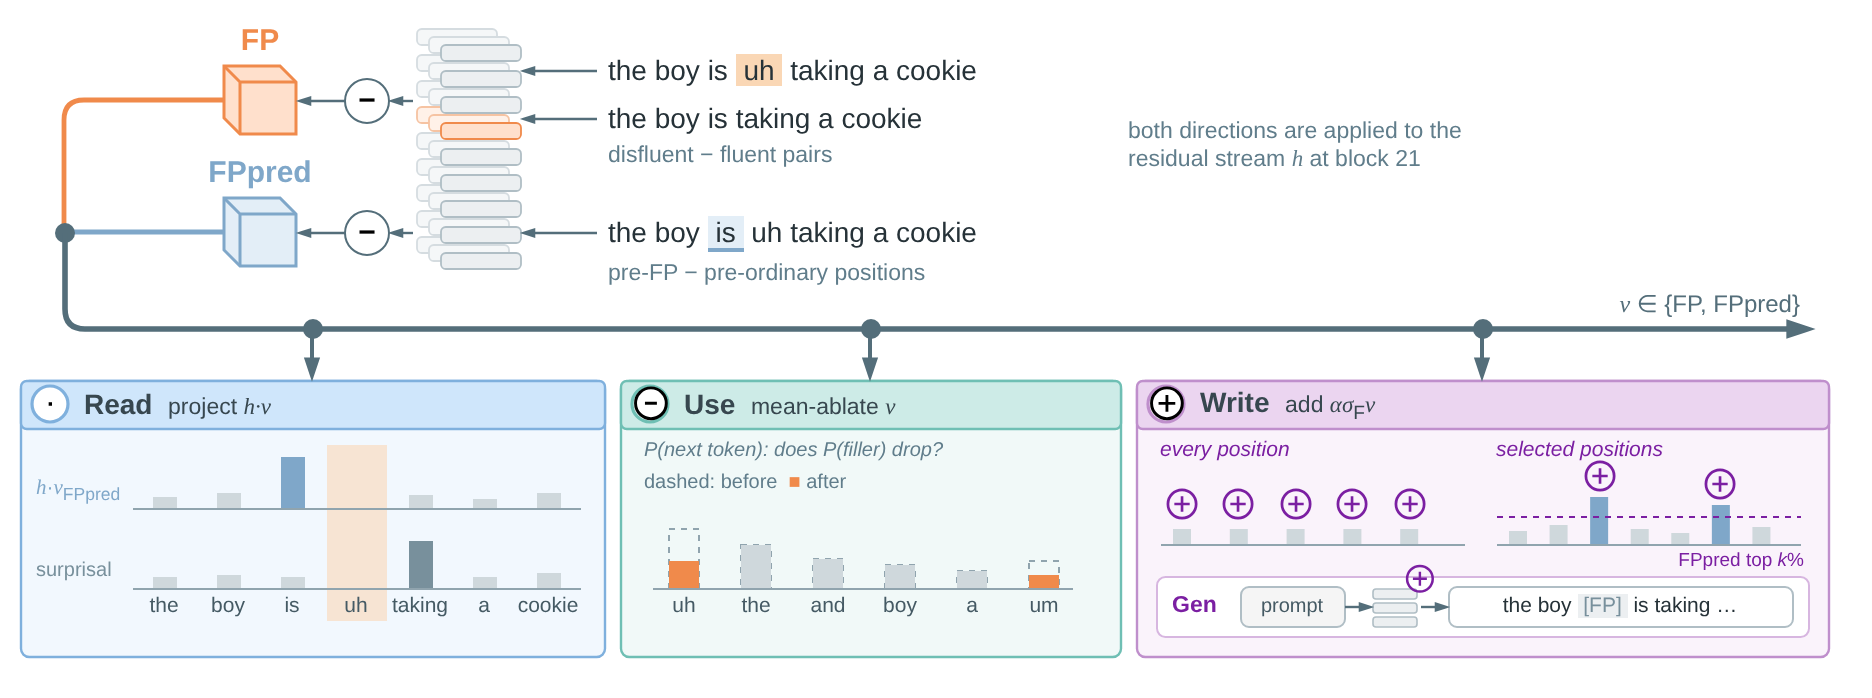
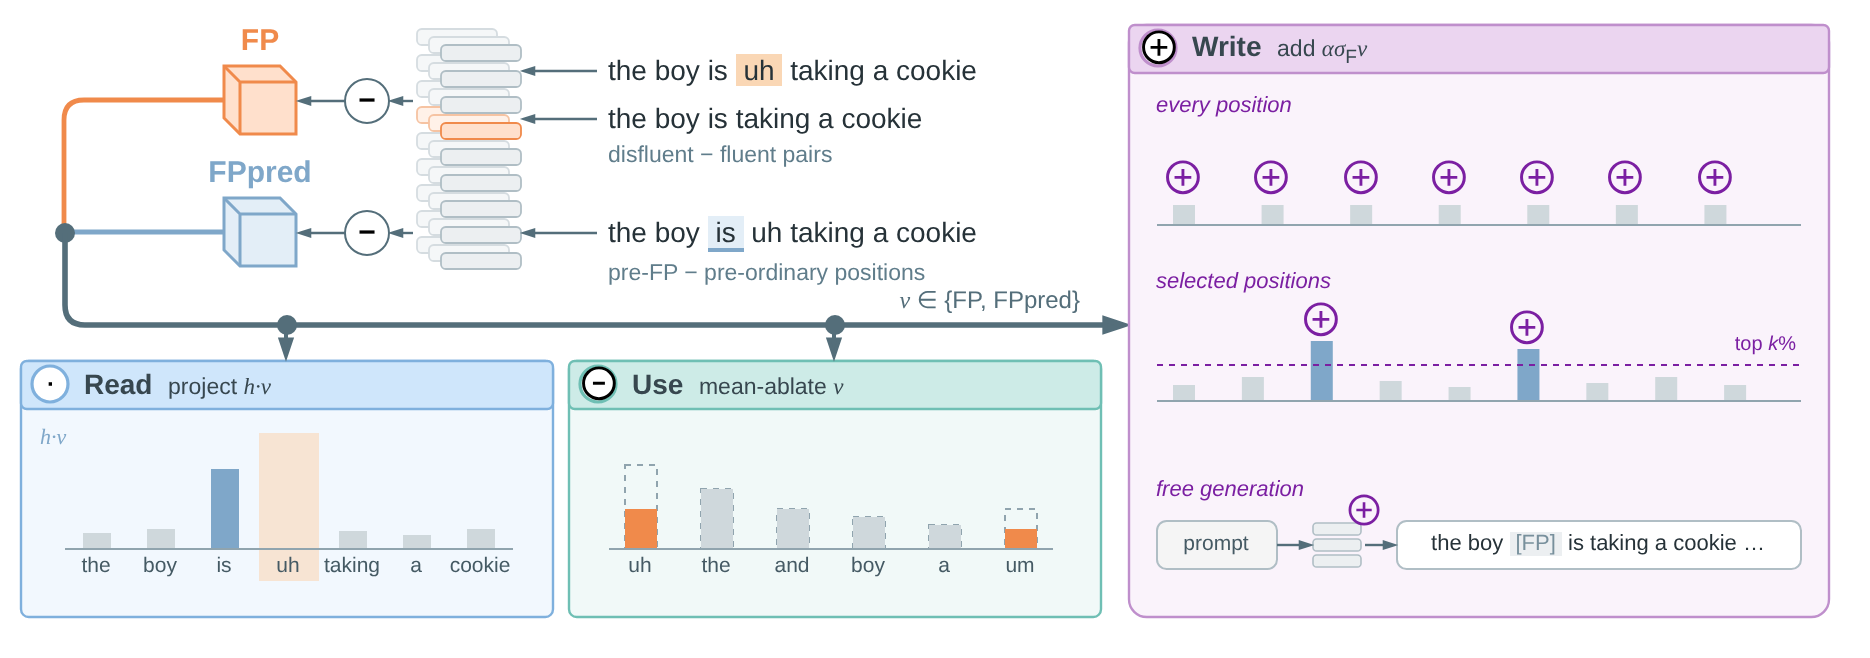
Overview figure v15: minimal Read/Use glyphs, full-height Write panel on the right
Claude-Session: https://claude.ai/code/session_01Nr8f45fQSeuNoeBXRTJGZT

diff --git a/figures/gen_overview.py b/figures/gen_overview.py
@@ -71,7 +71,7 @@ def tab(label, x, y, w):
 
 
 
-W, H = 920, 330
+W, H = 920, 312
 DARK = "#37474F"
 NOTE = "#607D8B"
 GREY_BAR = "#CFD8DC"
@@ -127,109 +127,101 @@ e(m2, c2, FLOW)
 text("<b>FP</b>", 98, FPY - 40, 60, 20, 15, WARM_S, "center")
 text("<b>FPpred</b>", 90, PRY - 40, 76, 20, 15, COOL_S, "center")
 
-text(f"both directions are applied to the<br>residual stream {serif('h')} at block 21",
-     560, 52, 300, 34, 11.5, NOTE)
 
-# both directions merge into one line that runs left -> right above the stages
-RL = 160
+
+# both directions merge into one line: left -> right, taps Read and Use, ends in Write
+RL = 158
 LINE = "#546E7A"
+WX = 562
 e(None, None, f"endArrow=none;strokeColor={WARM_S};strokeWidth=2.4;", sp=(110, FPY), pts=[(30, FPY)], tp=(30, PRY))
 e(None, None, f"endArrow=none;strokeColor={COOL_S};strokeWidth=2.4;", sp=(110, PRY), tp=(30, PRY))
 v("", 25, PRY - 5, 10, 10, f"ellipse;html=1;fillColor={LINE};strokeColor=none;")
-e(None, None, f"endArrow=blockThin;endFill=1;strokeColor={LINE};strokeWidth=2.8;", sp=(30, PRY), pts=[(30, RL)], tp=(904, RL))
-text(f"{serif('v')} ∈ {{FP, FPpred}}", 760, RL - 20, 140, 16, 12, LINE, "right")
+e(None, None, f"endArrow=blockThin;endFill=1;strokeColor={LINE};strokeWidth=2.8;", sp=(30, PRY), pts=[(30, RL)], tp=(WX, RL))
+text(f"{serif('v')} ∈ {{FP, FPpred}}", 400, RL - 20, 140, 16, 12, LINE, "right")
 
-# ======================= bottom: three stages =======================
-PY, PH = 186, 138
-PANELS = {"Read": (8, 292), "Use": (308, 250), "Write": (566, 346)}
+# ======================= stages =======================
+PY, PH = 176, 128
+WY, WH = 8, PY + PH - 8
+PANELS = {"Read": (8, 266, PY, PH), "Use": (282, 266, PY, PH), "Write": (WX, 912 - WX, WY, WH)}
 STYLE = {"Read": ("#F2F8FE", "#CFE6FB", "#7FB0DD", "·", f"project {serif('h·v')}"),
          "Use": ("#F1F9F8", "#CDEBE7", "#6FBFB4", "⊖", f"mean-ablate {serif('v')}"),
          "Write": ("#FAF3FB", "#EBD5F0", "#BF8FCC", "⊕", f"add {serif('ασ')}<sub>F</sub>{serif('v')}")}
-for name, (x, w) in PANELS.items():
+for name, (x, w, y, h) in PANELS.items():
     body, head, stroke, op, formula = STYLE[name]
-    v("", x, PY, w, PH, f"rounded=1;arcSize=3;html=1;fillColor={body};strokeColor={stroke};strokeWidth=1.2;")
-    v("", x, PY, w, 24, f"rounded=1;arcSize=12;html=1;fillColor={head};strokeColor={stroke};strokeWidth=1.2;")
-    v(op, x + 6, PY + 3, 18, 18, f"ellipse;html=1;fillColor=#FFFFFF;strokeColor={stroke};strokeWidth=1.6;fontSize=12;fontStyle=1;" + FONT)
-    text(f"<b>{name}</b>&nbsp;&nbsp;<font style='font-size:11.5px'>{formula}</font>", x + 30, PY + 2, w - 34, 20, 14, DARK)
-    cx_ = x + w / 2
-    v("", cx_ - 5, RL - 5, 10, 10, f"ellipse;html=1;fillColor={LINE};strokeColor=none;")
-    e(None, None, f"endArrow=blockThin;endFill=1;strokeColor={LINE};strokeWidth=2;", sp=(cx_, RL), tp=(cx_, PY))
+    v("", x, y, w, h, f"rounded=1;arcSize=3;html=1;fillColor={body};strokeColor={stroke};strokeWidth=1.2;")
+    v("", x, y, w, 24, f"rounded=1;arcSize=12;html=1;fillColor={head};strokeColor={stroke};strokeWidth=1.2;")
+    v(op, x + 6, y + 3, 18, 18, f"ellipse;html=1;fillColor=#FFFFFF;strokeColor={stroke};strokeWidth=1.6;fontSize=12;fontStyle=1;" + FONT)
+    text(f"<b>{name}</b>&nbsp;&nbsp;<font style='font-size:11.5px'>{formula}</font>", x + 30, y + 2, w - 34, 20, 14, DARK)
+    if name != "Write":
+        cx_ = x + w / 2
+        v("", cx_ - 5, RL - 5, 10, 10, f"ellipse;html=1;fillColor={LINE};strokeColor=none;")
+        e(None, None, f"endArrow=blockThin;endFill=1;strokeColor={LINE};strokeWidth=2;", sp=(cx_, RL), tp=(cx_, y))
 
-# ---- Read: h·v_FPpred peaks before the FP; surprisal peaks on the word after it
-x, w = PANELS["Read"]
+# ---- Read: h·v peaks just before the FP
+x, w, y, h = PANELS["Read"]
 words = ["the", "boy", "is", "uh", "taking", "a", "cookie"]
-dx, gx = 32, x + 56
-b1, b2 = PY + 64, PY + 104
-v("", gx + 3 * dx + 1, PY + 32, 30, 88, f"rounded=0;html=1;strokeColor=none;fillColor={FPHL};opacity=60;")
-hv = [6, 8, 26, 0, 7, 5, 8]
-sp_ = [6, 7, 6, 0, 24, 6, 8]
+dx, gx = 32, x + 22
+base = y + 94
+v("", gx + 3 * dx + 1, y + 36, 30, 74, f"rounded=0;html=1;strokeColor=none;fillColor={FPHL};opacity=60;")
+hv = [8, 10, 40, 0, 9, 7, 10]
 for i in range(len(words)):
-    if i == 3:
-        continue
-    bar(gx + i * dx + 10, b1, hv[i], COOL_S if i == 2 else GREY_BAR, w=12)
-    bar(gx + i * dx + 10, b2, sp_[i], "#78909C" if i == 4 else GREY_BAR, w=12)
-for yy in (b1, b2):
-    hline(gx, gx + len(words) * dx, yy, AXIS)
+    if i != 3:
+        bar(gx + i * dx + 9, base, hv[i], COOL_S if i == 2 else GREY_BAR, w=14)
+hline(gx, gx + len(words) * dx, base, AXIS)
 for i, wd in enumerate(words):
-    text(wd, gx + i * dx - 4, b2 + 2, dx + 8, 14, 10.5, "#455A64", "center")
-text(f"{serif('h')}·{serif('v')}<sub>FPpred</sub>", x + 6, b1 - 16, 52, 14, 10.5, COOL_S)
-text("surprisal", x + 6, b2 - 16, 52, 14, 10, "#78909C")
+    text(wd, gx + i * dx - 4, base + 2, dx + 8, 14, 10.5, "#455A64", "center")
+text(f"{serif('h·v')}", x + 8, y + 32, 30, 14, 11, COOL_S)
 
 # ---- Use: next-token distribution before (dashed) / after ablation (filled)
-x, w = PANELS["Use"]
-text("<i>P(next token): does P(filler) drop?</i>", x + 10, PY + 28, w - 14, 14, 10, NOTE)
+x, w, y, h = PANELS["Use"]
 cands = ["uh", "the", "and", "boy", "a", "um"]
-before = [30, 22, 15, 12, 9, 14]
-after = [14, 22, 15, 12, 9, 7]
-base, dx, gx = PY + 104, 36, x + 24
+before = [42, 30, 20, 16, 12, 20]
+after = [20, 30, 20, 16, 12, 10]
+base, dx, gx = y + 94, 38, x + 28
 for i in range(len(cands)):
     xx = gx + i * dx
-    bar(xx, base, before[i], "none", w=15, extra="strokeColor=#90A4AE;dashed=1;strokeWidth=1;")
-    bar(xx, base, after[i], WARM_S if cands[i] in ("uh", "um") else GREY_BAR, w=15)
+    bar(xx, base, before[i], "none", w=16, extra="strokeColor=#90A4AE;dashed=1;strokeWidth=1;")
+    bar(xx, base, after[i], WARM_S if cands[i] in ("uh", "um") else GREY_BAR, w=16)
     text(cands[i], xx - 12, base + 2, 40, 14, 10.5, "#455A64", "center")
 hline(gx - 8, gx + len(cands) * dx - 14, base, AXIS)
-text(f"dashed: before&nbsp; <span style='color:{WARM_S}'>■</span> after", x + 10, PY + 44, w - 14, 14, 10, NOTE)
 
-# ---- Write: every vs selected positions, free generation, analyses
-x, w = PANELS["Write"]
-half = (w - 30) / 2
-for k, title in enumerate(("every position", "selected positions")):
-    bx = x + 10 + k * (half + 10)
-    text(f"<i>{title}</i>", bx, PY + 28, half, 14, 10.5, PURPLE)
-    base = PY + 82
-    n = 5 if k == 0 else 7
-    ddx = (half - 16) / n
-    sc = [7, 10, 24, 8, 6, 20, 9]
+# ---- Write (tall): every position, selected positions, free generation
+x, w, y, h = PANELS["Write"]
+blocks = (("every position", y + 34), ("selected positions", y + 122))
+for k, (title, ty) in enumerate(blocks):
+    text(f"<i>{title}</i>", x + 12, ty, 160, 14, 11, PURPLE)
+    base = ty + 66
+    n = 7 if k == 0 else 9
+    ddx = (w - 40) / n
+    sc = [8, 12, 30, 10, 7, 26, 9, 12, 8]
     for i in range(n):
-        xx = bx + 8 + i * ddx
+        xx = x + 22 + i * ddx
         if k == 0:
-            bar(xx, base, 8, GREY_BAR, w=9)
-            text("⊕", xx - 3, base - 26, 16, 14, 11, PURPLE, "center", "fontStyle=1;")
+            bar(xx, base, 10, GREY_BAR, w=11)
+            text("⊕", xx - 3, base - 30, 17, 14, 12, PURPLE, "center", "fontStyle=1;")
         else:
-            over = sc[i] > 14
-            bar(xx, base, sc[i], COOL_S if over else GREY_BAR, w=9)
+            over = sc[i] > 18
+            bar(xx, base, sc[i], COOL_S if over else GREY_BAR, w=11)
             if over:
-                text("⊕", xx - 3, base - sc[i] - 16, 16, 14, 11, PURPLE, "center", "fontStyle=1;")
-    hline(bx + 2, bx + half - 4, base, AXIS)
+                text("⊕", xx - 3, base - sc[i] - 17, 17, 14, 12, PURPLE, "center", "fontStyle=1;")
+    hline(x + 14, x + w - 14, base, AXIS)
     if k == 1:
-        hline(bx + 2, bx + half - 4, base - 14, "dashed=1;strokeColor=#7B1FA2;strokeWidth=1;")
-        text("FPpred top <i>k</i>%", bx + half - 90, base + 2, 90, 12, 9.5, PURPLE, "right")
+        hline(x + 14, x + w - 14, base - 18, "dashed=1;strokeColor=#7B1FA2;strokeWidth=1;")
+        text("top <i>k</i>%", x + w - 60, base - 34, 46, 12, 10, PURPLE, "right")
 
-gy = PY + 98
-v("", x + 10, gy, w - 20, 30, "rounded=1;arcSize=14;html=1;fillColor=#FFFFFF;strokeColor=#D7B6E0;")
-text("<b>Gen</b>", x + 16, gy + 6, 34, 18, 11.5, PURPLE)
-pc = v("prompt", x + 52, gy + 5, 52, 20,
-       "rounded=1;arcSize=20;html=1;fillColor=#F5F5F5;strokeColor=#B0BEC5;fontSize=10;fontColor=#455A64;whiteSpace=wrap;" + FONT)
-gl = x + 118
+gy = y + 226
+text("<i>free generation</i>", x + 12, gy, 160, 14, 11, PURPLE)
+pc = v("prompt", x + 14, gy + 22, 60, 24,
+       "rounded=1;arcSize=20;html=1;fillColor=#F5F5F5;strokeColor=#B0BEC5;fontSize=10.5;fontColor=#455A64;whiteSpace=wrap;" + FONT)
+gl = x + 92
 for i in range(3):
-    v("", gl, gy + 6 + i * 7, 22, 5, "rounded=1;arcSize=30;html=1;strokeWidth=0.8;fillColor=#ECEFF1;strokeColor=#B0BEC5;")
-text("⊕", gl + 16, gy - 4, 16, 12, 10, PURPLE, "center", "fontStyle=1;")
-e(pc, None, FLOW, tp=(gl, gy + 15))
-oc = v("the boy <span style='background-color:#ECEFF1;color:#78909C'>&nbsp;[FP]&nbsp;</span> is taking …",
-       gl + 38, gy + 5, x + w - 18 - (gl + 38), 20,
-       "rounded=1;arcSize=20;html=1;fillColor=#FFFFFF;strokeColor=#B0BEC5;fontSize=10.5;fontColor=#263238;whiteSpace=wrap;" + FONT)
-e(None, oc, FLOW, sp=(gl + 24, gy + 15))
-
+    v("", gl, gy + 23 + i * 8, 24, 6, "rounded=1;arcSize=30;html=1;strokeWidth=0.8;fillColor=#ECEFF1;strokeColor=#B0BEC5;")
+text("⊕", gl + 18, gy + 12, 16, 12, 11, PURPLE, "center", "fontStyle=1;")
+e(pc, None, FLOW, tp=(gl, gy + 34))
+oc = v("the boy <span style='background-color:#ECEFF1;color:#78909C'>&nbsp;[FP]&nbsp;</span> is taking a cookie …",
+       gl + 42, gy + 22, x + w - 14 - (gl + 42), 24,
+       "rounded=1;arcSize=20;html=1;fillColor=#FFFFFF;strokeColor=#B0BEC5;fontSize=11;fontColor=#263238;whiteSpace=wrap;" + FONT)
+e(None, oc, FLOW, sp=(gl + 26, gy + 34))
 
 xml = ('<mxfile host="drawio"><diagram id="overview" name="Overview">'
        f'<mxGraphModel dx="{W}" dy="{H}" grid="0" gridSize="10" guides="1" tooltips="1" connect="1" arrows="1" '

diff --git a/figures/overview_prompt.md b/figures/overview_prompt.md
@@ -177,3 +177,9 @@ Write 栏挂钩前放门控菱形 `FPpred high?`，接收来自 ② 的 `externa
 - 去掉各面板的实验条目，每个阶段只保留一张分布示意图（Write 含 every / selected positions 与 Gen 条）。
 - FP 与 FPpred 在左侧汇合成一条线（v ∈ {FP, FPpred}），从左往右，每个阶段一个接头。
 - 宽高比约 2.8:1。
+
+## 19. v15
+
+- Read 只保留 h·v 一排；Use 只保留消融前后分布图，去掉标题与图例文字；删除右上注释。
+- Write 面板改为右侧整高，向上延伸占据右上空白；方向线从左往右，接 Read、Use 后直接进入 Write 左侧。
+- Write 内上下三块：every position / selected positions (top k%) / free generation。
